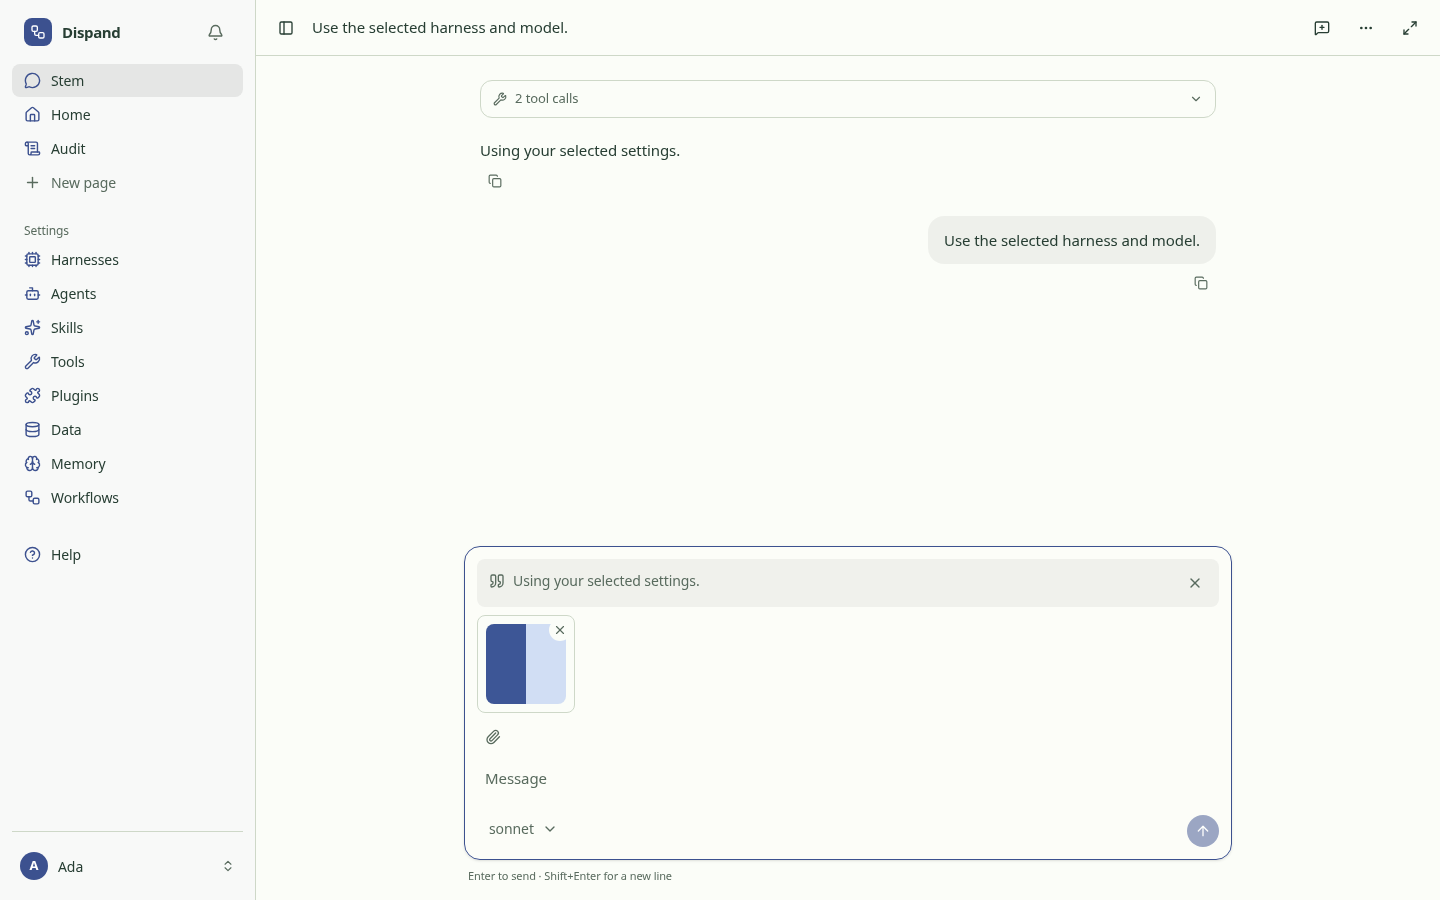
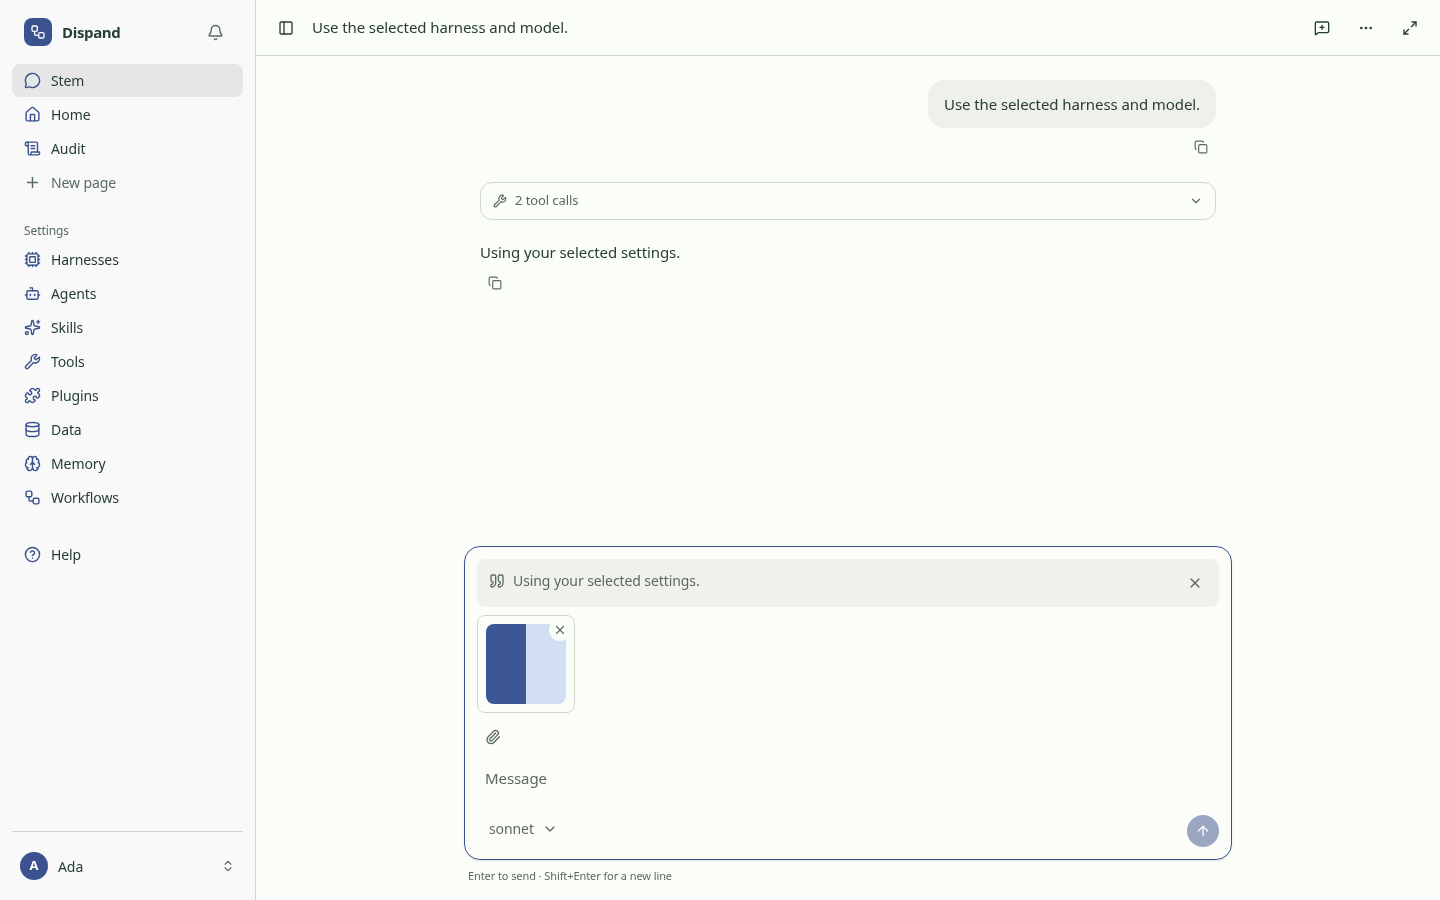
test(chat): wait for the prompt before simulating replies

diff --git a/apps/web/e2e/assistant.spec.ts b/apps/web/e2e/assistant.spec.ts
@@ -325,6 +325,8 @@ test("Assistant settings selects the next conversation's harness and model; chat
     const { start } = await settingsRunner.waitFor("session.start", WAIT_MS);
     expect(start.harness).toBe("claude-code");
     expect(start.model).toBe("sonnet");
+    // The session starts before the chat's first message is persisted and delivered.
+    expect(await settingsRunner.waitFor("session.send", WAIT_MS)).toMatchObject({ sessionId: start.sessionId, text: "Use the selected harness and model." });
     settingsRunner.emit(start.sessionId, { type: "tool", name: "Read workspace", status: "started" });
     settingsRunner.emit(start.sessionId, { type: "tool", name: "Inspect settings", status: "started" });
     settingsRunner.emit(start.sessionId, { type: "text", delta: "Using your selected settings." });
